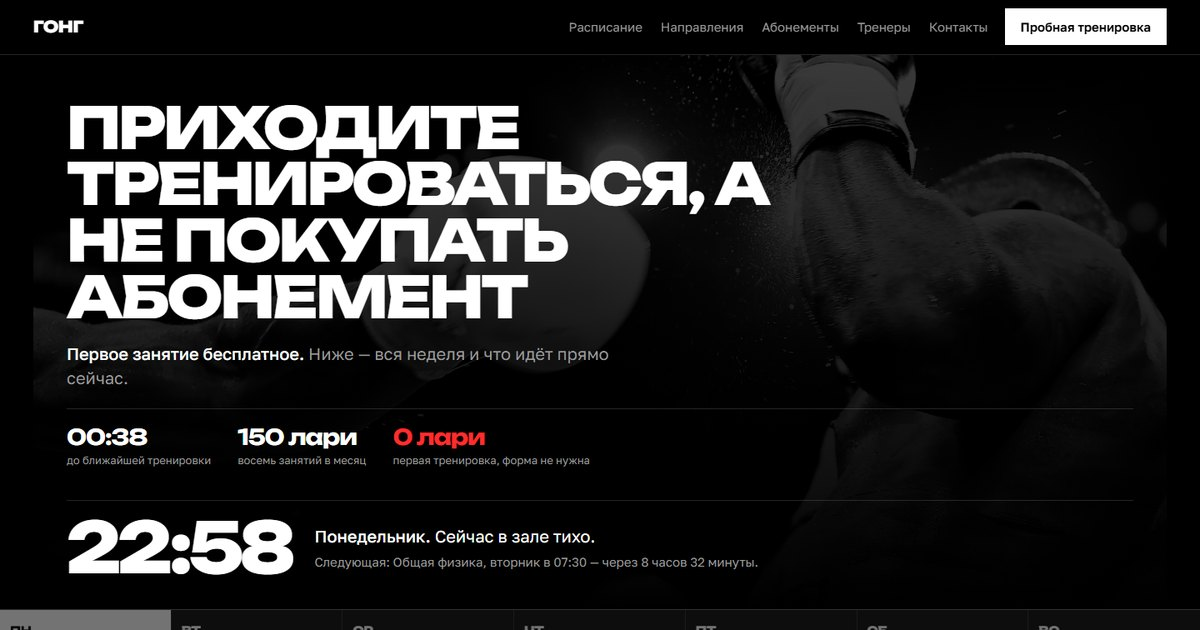
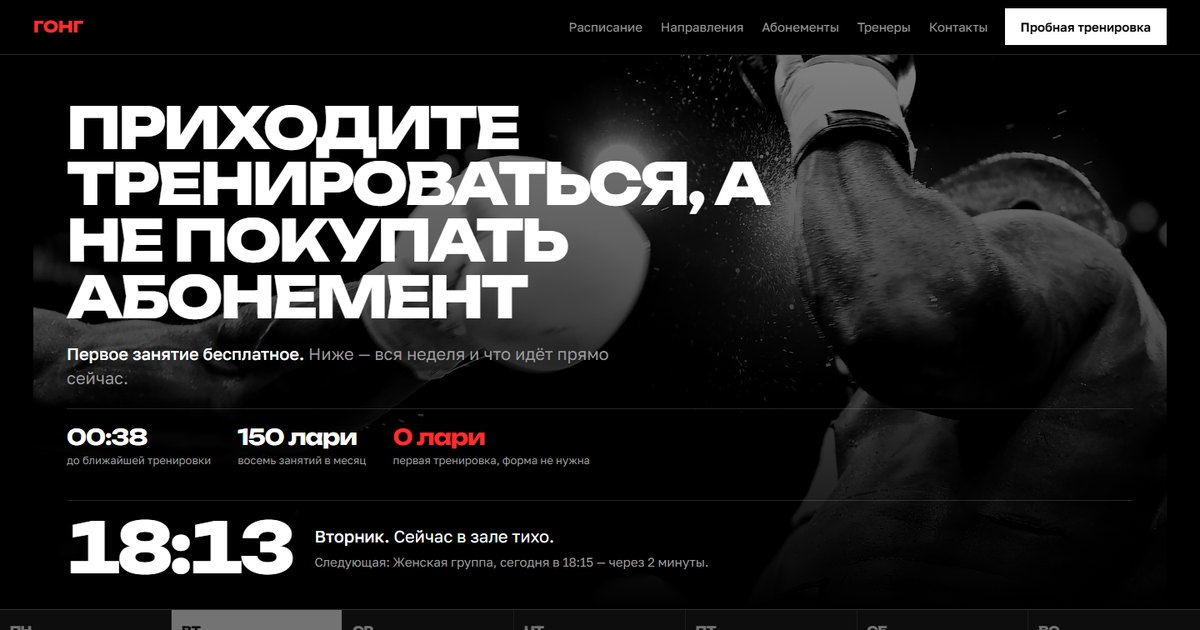
Правки от 22.09

diff --git a/index.html b/index.html
@@ -77,7 +77,10 @@ button,input,select,textarea{font:inherit;color:inherit}
 .top{position:sticky;top:0;z-index:50;display:flex;align-items:center;gap:20px;
   padding:10px var(--gut);background:rgba(0,0,0,.92);border-bottom:1px solid var(--line);
   backdrop-filter:blur(8px)}
-.mark{font-family:var(--disp);font-weight:800;font-size:19px;letter-spacing:-.02em;text-decoration:none;min-height:44px;display:inline-flex;align-items:center;padding:8px 0}
+/* Правка 22.09 (решение Романа): название зала красным. Красный до этого был
+   сигналом «идёт сейчас» и больше нигде не встречался — теперь он ещё и в шапке. */
+.mark{font-family:var(--disp);font-weight:800;font-size:19px;letter-spacing:-.02em;text-decoration:none;
+  color:var(--red);min-height:44px;display:inline-flex;align-items:center;padding:8px 0}
 .nav{display:none;gap:22px;margin-left:auto;font-size:15px;color:var(--ash)}
 .nav a{text-decoration:none}
 .nav a:hover{color:var(--white)}
@@ -97,10 +100,13 @@ h3{font-family:var(--text);font-weight:600;font-size:18px;line-height:1.3}
    Сам заголовок стал чуть меньше — картинка забирает часть внимания. */
 .hero{position:relative;isolation:isolate}
 .hero__bg{position:absolute;inset:0;z-index:-1;overflow:hidden}
+/* Правка 22.09: кадр было почти не разглядеть — поднята яркость и снята часть
+   затемнения. Чёрно-белым оставлен намеренно: это палитра работы по матрице.
+   Затемнение в середине держим сильнее краёв — там лежит белый заголовок. */
 .hero__bg img{width:100%;height:100%;object-fit:cover;object-position:50% 35%;
-  filter:grayscale(1) contrast(1.1) brightness(.5)}
+  filter:grayscale(1) contrast(1.2) brightness(.86)}
 .hero__bg::after{content:"";position:absolute;inset:0;
-  background:linear-gradient(180deg,rgba(0,0,0,.55) 0%,rgba(0,0,0,.72) 45%,var(--black) 100%)}
+  background:linear-gradient(180deg,rgba(0,0,0,.42) 0%,rgba(0,0,0,.62) 45%,var(--black) 100%)}
 h1{font-family:var(--disp);font-weight:800;font-size:clamp(25.5px,4.8vw,78.2px);line-height:.98;
   letter-spacing:-.045em;max-width:15ch;text-transform:uppercase}
 .hero__lead{margin-top:20px;font-size:clamp(17px,1.5vw,20px);line-height:1.45;max-width:58ch;color:var(--ash)}
@@ -223,18 +229,22 @@ h1{font-family:var(--disp);font-weight:800;font-size:clamp(25.5px,4.8vw,78.2px);
 @media (min-width:620px){.coaches{grid-template-columns:repeat(2,minmax(0,1fr))}}
 @media (min-width:1100px){.coaches{grid-template-columns:repeat(4,minmax(0,1fr))}}
 /* Правка 21.09: у каждого тренера кадр в круглой рамке, имя под ним.
-   Лица не ставим: чужой человек в роли «нашего тренера» — обман, и это
-   прямо запрещено регламентом (SITE-FACTORY §6). Вместо лиц — снаряд
-   по специализации: перчатки, ринг, канаты, гантели. */
+   Правка 22.09 (решение Романа): на демо ставим лица. Раньше здесь стоял снаряд
+   вместо лица по регламенту SITE-FACTORY §7.5 — но зал без людей читается холодным,
+   а бизнес тут вымышленный целиком, включая имена. Для живого клиента на это место
+   идут ЕГО фотографии: сток здесь показывает клиенту будущий вид, а не выдаёт
+   чужого человека за сотрудника.
+   Наведение: кадр наливается цветом. На телефоне наведения нет — там цвет сразу. */
 .co__ph{display:block;width:104px;height:104px;border-radius:50%;overflow:hidden;
   border:1px solid var(--line);margin-bottom:14px}
-.co__ph img{width:100%;height:100%;object-fit:cover;object-position:50% 62%;transform:scale(1.25);
-  filter:grayscale(1) contrast(1.15) brightness(.85);transition:filter .3s ease,transform .3s ease}
-.co:hover .co__ph img{filter:grayscale(1) contrast(1.2) brightness(1);transform:scale(1.16)}
+.co__ph img{width:100%;height:100%;object-fit:cover;object-position:50% 28%;transform:scale(1.06);
+  filter:grayscale(1) contrast(1.12) brightness(.92);transition:filter .3s ease,transform .3s ease}
+.co:hover .co__ph img{filter:grayscale(0) contrast(1.04) brightness(1.06);transform:scale(1.14)}
+@media (hover:none){.co__ph img{filter:grayscale(0) contrast(1.04) brightness(1.02)}}
 .co{display:grid;background:var(--card);border:1px solid var(--line);border-radius:var(--r);
   box-shadow:var(--shadow-sm);padding:20px 18px;gap:6px;
-  transition:transform .3s ease,box-shadow .3s ease}
-.co:hover{transform:translateY(-6px);box-shadow:var(--shadow)}
+  transition:transform .3s ease,box-shadow .3s ease,border-color .3s ease}
+.co:hover{transform:translateY(-6px);box-shadow:var(--shadow);border-color:rgba(255,255,255,.34)}
 .co__n{font-family:var(--disp);font-weight:700;font-size:clamp(22px,2.6vw,34px);letter-spacing:-.04em;line-height:1}
 .co__d{display:inline-block;margin-top:8px;padding:5px 11px;border-radius:999px;
   background:rgba(255,255,255,.08);color:var(--white);font-size:13px;white-space:nowrap;justify-self:start}
@@ -242,6 +252,10 @@ h1{font-family:var(--disp);font-weight:800;font-size:clamp(25.5px,4.8vw,78.2px);
 
 /* ============ зал ============ */
 .hall{display:grid;grid-template-columns:1fr;gap:26px;margin-top:24px}
+/* Правка 22.09: кадры были разной высоты, а зазор задавался отступом у нижнего —
+   правая колонка выходила длиннее табло. Теперь высоты равны, зазор общий. */
+.hall figure{display:flex;flex-direction:column;gap:14px}
+.hall .ph1 img,.hall .ph2 img{height:clamp(190px,21vw,266px)}
 @media (min-width:900px){
   /* Правка 21.09: левая колонка тянется на всю высоту кадров, табло занимает
      остаток — так оно стоит ровно напротив фотографий. */
@@ -265,8 +279,6 @@ h1{font-family:var(--disp);font-weight:800;font-size:clamp(25.5px,4.8vw,78.2px);
 .note .accent{color:var(--white);font-weight:600}
 .hall img{width:100%;object-fit:cover;border-radius:var(--r);
   filter:grayscale(1) contrast(1.05) brightness(1.15)}
-.hall .ph1 img{height:clamp(200px,26vw,320px)}
-.hall .ph2 img{height:clamp(200px,22vw,280px);margin-top:12px}
 figcaption{margin-top:10px;color:var(--ash);font-size:13px;line-height:1.45}
 
 /* ============ форма ============ */
@@ -460,10 +472,10 @@ fieldset.f{border:0;padding:0;margin:0}
     <div class="sec__in">
       <h2 id="h-c">Тренеры</h2>
       <ul class="coaches">
-        <li class="co"><span class="co__ph"><img src="https://images.unsplash.com/photo-1549719386-74dfcbf7dbed?auto=format&fit=crop&w=600&q=74" alt="Боксёрские перчатки" width="600" height="600" loading="lazy" decoding="async"></span><span class="co__n">Давид</span><span class="co__s">бокс, кикбоксинг, открытый спарринг</span><span class="co__d">пн, ср, чт, сб</span></li>
-        <li class="co"><span class="co__ph"><img src="https://images.unsplash.com/photo-1630174385975-a406e87cd47c?auto=format&fit=crop&w=600&q=74" alt="Боксёрский мешок на цепях" width="600" height="600" loading="lazy" decoding="async"></span><span class="co__n">Ираклий</span><span class="co__s">грэпплинг, ММА</span><span class="co__d">вт, пт, вс</span></li>
-        <li class="co"><span class="co__ph"><img src="https://images.unsplash.com/photo-1526506118085-60ce8714f8c5?auto=format&fit=crop&w=600&q=74" alt="Силуэт в тёмном зале" width="600" height="600" loading="lazy" decoding="async"></span><span class="co__n">Нана</span><span class="co__s">женская группа, общая физика</span><span class="co__d">утро пн–пт, вт, чт, вс</span></li>
-        <li class="co"><span class="co__ph"><img src="https://images.unsplash.com/photo-1576678927484-cc907957088c?auto=format&fit=crop&w=600&q=74" alt="Ряд гантелей в зале" width="600" height="600" loading="lazy" decoding="async"></span><span class="co__n">Георгий</span><span class="co__s">детские группы</span><span class="co__d">пн–сб</span></li>
+        <li class="co"><span class="co__ph"><img src="https://images.unsplash.com/photo-1500648767791-00dcc994a43e?auto=format&fit=crop&w=600&q=74" alt="Давид" width="600" height="600" loading="lazy" decoding="async"></span><span class="co__n">Давид</span><span class="co__s">бокс, кикбоксинг, открытый спарринг</span><span class="co__d">пн, ср, чт, сб</span></li>
+        <li class="co"><span class="co__ph"><img src="https://images.unsplash.com/photo-1507003211169-0a1dd7228f2d?auto=format&fit=crop&w=600&q=74" alt="Ираклий" width="600" height="600" loading="lazy" decoding="async"></span><span class="co__n">Ираклий</span><span class="co__s">грэпплинг, ММА</span><span class="co__d">вт, пт, вс</span></li>
+        <li class="co"><span class="co__ph"><img src="https://images.unsplash.com/photo-1494790108377-be9c29b29330?auto=format&fit=crop&w=600&q=74" alt="Нана" width="600" height="600" loading="lazy" decoding="async"></span><span class="co__n">Нана</span><span class="co__s">женская группа, общая физика</span><span class="co__d">утро пн–пт, вт, чт, вс</span></li>
+        <li class="co"><span class="co__ph"><img src="https://images.unsplash.com/photo-1535713875002-d1d0cf377fde?auto=format&fit=crop&w=600&q=74" alt="Георгий" width="600" height="600" loading="lazy" decoding="async"></span><span class="co__n">Георгий</span><span class="co__s">детские группы</span><span class="co__d">пн–сб</span></li>
       </ul>
     </div>
   </section>
@@ -480,11 +492,10 @@ fieldset.f{border:0;padding:0;margin:0}
             <li><b>6+2</b><span>мешка и груши на пневмоподвесе</span></li>
             <li><b>2</b><span>раздевалки с душем, детская отдельная</span></li>
           </ul>
-          <p class="hall__cap">Вода и бинты на ресепшене — бесплатно.</p>
         </div>
         <figure>
           <div class="ph1"><img src="https://images.unsplash.com/photo-1716306886418-f84f6d4c2f3a?auto=format&fit=crop&w=1400&q=74" alt="Ряд боксёрских мешков в зале" width="1400" height="930" loading="lazy" decoding="async"></div>
-          <div class="ph2"><img src="https://images.unsplash.com/photo-1605296867304-46d5465a13f1?auto=format&fit=crop&w=1400&q=74" alt="Силуэт со штангой в тёмном зале" width="1400" height="930" loading="lazy" decoding="async"></div>
+          <div class="ph2"><img src="https://images.unsplash.com/photo-1623874514711-0f321325f318?auto=format&fit=crop&w=1400&q=74" alt="Зал под высоким потолком: скамьи и стойки вдоль стены" width="1400" height="930" loading="lazy" decoding="async"></div>
         </figure>
       </div>
     </div>
@@ -534,7 +545,7 @@ fieldset.f{border:0;padding:0;margin:0}
             </div>
             <div class="send">
               <button class="btn" type="submit" id="send" disabled>Записаться на пробную</button>
-              <p class="send__hint" id="send-hint">Кнопка заработает, когда отметите согласие.</p>
+              <p class="send__hint" id="send-hint"></p>
             </div>
           </form>
 
@@ -719,8 +730,7 @@ fieldset.f{border:0;padding:0;margin:0}
   var done = document.getElementById('done');
   function sync() {
     send.disabled = !agree.checked;
-    hint.textContent = agree.checked ? 'Это демо-сайт: заявка никуда не уйдёт.'
-                                     : 'Кнопка заработает, когда отметите согласие.';
+    hint.textContent = agree.checked ? 'Перезвоним в течение дня.' : '';
   }
   agree.addEventListener('change', sync);
   sync();
